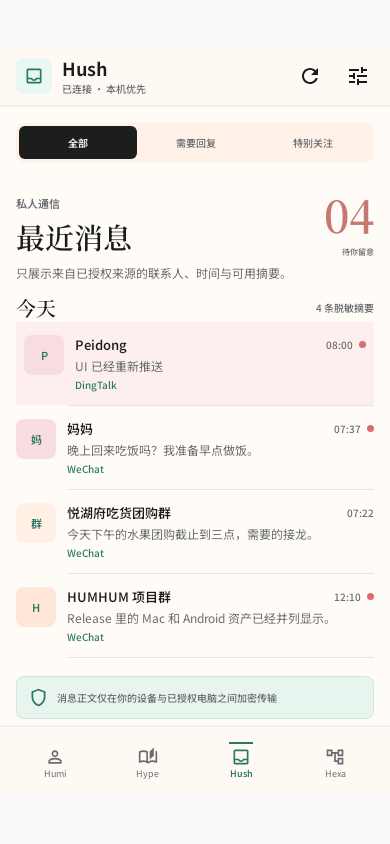
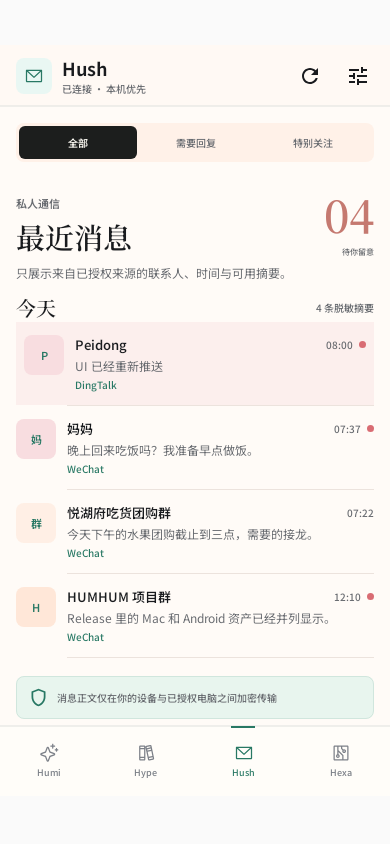
fix(android): match editorial role navigation

diff --git a/android/app/src/main/java/com/humhum/mobile/ui/components/RoleNavigation.kt b/android/app/src/main/java/com/humhum/mobile/ui/components/RoleNavigation.kt
@@ -2,43 +2,45 @@ package com.humhum.mobile.ui.components
 
 import androidx.compose.foundation.background
 import androidx.compose.foundation.clickable
-import androidx.compose.ui.draw.drawBehind
 import androidx.compose.foundation.layout.Arrangement
+import androidx.compose.foundation.layout.Box
 import androidx.compose.foundation.layout.Column
 import androidx.compose.foundation.layout.Row
-import androidx.compose.foundation.layout.Spacer
+import androidx.compose.foundation.layout.fillMaxHeight
 import androidx.compose.foundation.layout.fillMaxWidth
 import androidx.compose.foundation.layout.height
-import androidx.compose.foundation.layout.padding
 import androidx.compose.foundation.layout.size
-import androidx.compose.foundation.layout.width
 import androidx.compose.runtime.Composable
 import androidx.compose.ui.Alignment
 import androidx.compose.ui.Modifier
-import androidx.compose.ui.graphics.Color
 import androidx.compose.ui.geometry.Offset
+import androidx.compose.ui.geometry.Size
+import androidx.compose.ui.draw.drawBehind
+import androidx.compose.ui.graphics.Color
 import androidx.compose.ui.graphics.vector.ImageVector
 import androidx.compose.ui.platform.testTag
+import androidx.compose.ui.res.vectorResource
 import androidx.compose.ui.semantics.Role
 import androidx.compose.ui.semantics.semantics
 import androidx.compose.ui.semantics.selected
-import androidx.compose.ui.text.font.FontWeight
 import androidx.compose.ui.unit.dp
 import androidx.compose.ui.unit.sp
-import androidx.compose.material3.MaterialTheme
 import androidx.compose.material3.Icon
+import androidx.compose.material3.MaterialTheme
 import androidx.compose.material3.Text
-import androidx.compose.material.icons.Icons
-import androidx.compose.material.icons.outlined.AccountTree
-import androidx.compose.material.icons.outlined.AutoStories
-import androidx.compose.material.icons.outlined.Inbox
-import androidx.compose.material.icons.outlined.PersonOutline
 import com.humhum.mobile.MobileRoleDashboard
-import com.humhum.mobile.ui.theme.Muted
+import com.humhum.mobile.R
 import com.humhum.mobile.ui.theme.EditorialMetrics
-import com.humhum.mobile.ui.theme.HexaPanelMuted
-import com.humhum.mobile.ui.theme.paletteFor
 import com.humhum.mobile.ui.theme.editorialSpecFor
+
+object RoleNavigationMetrics {
+    val IconSize = 20.dp
+    val IndicatorWidth = 24.dp
+    val IndicatorHeight = 2.dp
+    val ItemGap = 3.dp
+    val LabelSize = 9.sp
+    val LabelLineHeight = 11.sp
+}
 
 @Composable
 fun RoleNavigation(
@@ -47,12 +49,17 @@ fun RoleNavigation(
     modifier: Modifier = Modifier,
 ) {
     val spec = editorialSpecFor(selected)
-    val divider = if (spec.dark) HexaPanelMuted.copy(alpha = 0.34f) else Color(0xFFE1E5EC)
+    val divider = if (spec.dark) Color(0xFF3B3F45) else Color(0xFFDFE1DE)
+    val background = when (selected) {
+        MobileRoleDashboard.Role.HUSH -> Color(0xFFFFFDF9)
+        MobileRoleDashboard.Role.HEXA -> Color(0xFF141619)
+        else -> Color.White.copy(alpha = 0.92f)
+    }
     Row(
         modifier = modifier
             .fillMaxWidth()
             .height(EditorialMetrics.BottomNavigationHeight)
-            .background(spec.canvas)
+            .background(background)
             .drawBehind {
                 drawLine(
                     color = divider,
@@ -61,7 +68,6 @@ fun RoleNavigation(
                     strokeWidth = 1.dp.toPx(),
                 )
             }
-            .padding(horizontal = 8.dp, vertical = 6.dp)
             .testTag("role-navigation"),
         horizontalArrangement = Arrangement.SpaceEvenly,
         verticalAlignment = Alignment.CenterVertically,
@@ -86,48 +92,67 @@ private fun RoleDestination(
     onClick: () -> Unit,
     modifier: Modifier = Modifier,
 ) {
-    val palette = paletteFor(role)
-    val idleColor = if (dark) HexaPanelMuted.copy(alpha = 0.62f) else Muted
-    Column(
+    val activeColor = roleNavigationActiveColor(role)
+    val idleColor = if (dark) Color(0xFF747A83) else Color(0xFF7C8088)
+    Box(
         modifier = modifier
-            .padding(horizontal = 3.dp)
+            .fillMaxHeight()
             .clickable(role = Role.Tab, onClick = onClick)
             .semantics { this.selected = selected }
             .testTag("role-destination")
-            .padding(vertical = 2.dp),
-        horizontalAlignment = Alignment.CenterHorizontally,
-        verticalArrangement = Arrangement.Center,
+            .drawBehind {
+                if (selected) {
+                    val indicatorWidth = RoleNavigationMetrics.IndicatorWidth.toPx()
+                    drawRect(
+                        color = activeColor,
+                        topLeft = Offset((size.width - indicatorWidth) / 2f, 0f),
+                        size = Size(
+                            indicatorWidth,
+                            RoleNavigationMetrics.IndicatorHeight.toPx(),
+                        ),
+                    )
+                }
+            },
+        contentAlignment = Alignment.Center,
     ) {
-        Spacer(
-            Modifier
-                .width(24.dp)
-                .height(2.dp)
-                .background(if (selected) palette.accent else Color.Transparent),
-        )
-        Spacer(Modifier.height(3.dp))
-        Icon(
-            imageVector = roleIconFor(role),
-            contentDescription = null,
-            modifier = Modifier.size(20.dp),
-            tint = if (selected) palette.accent else idleColor,
-        )
-        Text(
-            text = role.displayName(),
-            style = MaterialTheme.typography.labelMedium.copy(
-                fontSize = 9.sp,
-                lineHeight = 13.sp,
-                letterSpacing = 0.sp,
-            ),
-            fontWeight = if (selected) FontWeight.SemiBold else FontWeight.Normal,
-            color = if (selected) palette.accent else idleColor,
-            maxLines = 1,
-        )
+        Column(
+            horizontalAlignment = Alignment.CenterHorizontally,
+            verticalArrangement = Arrangement.spacedBy(RoleNavigationMetrics.ItemGap),
+        ) {
+            Icon(
+                imageVector = roleIconFor(role),
+                contentDescription = null,
+                modifier = Modifier.size(RoleNavigationMetrics.IconSize),
+                tint = if (selected) activeColor else idleColor,
+            )
+            Text(
+                text = role.displayName(),
+                style = MaterialTheme.typography.labelMedium.copy(
+                    fontSize = RoleNavigationMetrics.LabelSize,
+                    lineHeight = RoleNavigationMetrics.LabelLineHeight,
+                    letterSpacing = 0.sp,
+                ),
+                color = if (selected) activeColor else idleColor,
+                maxLines = 1,
+            )
+        }
     }
 }
 
-fun roleIconFor(role: MobileRoleDashboard.Role): ImageVector = when (role) {
-    MobileRoleDashboard.Role.HUMI -> Icons.Outlined.PersonOutline
-    MobileRoleDashboard.Role.HYPE -> Icons.Outlined.AutoStories
-    MobileRoleDashboard.Role.HUSH -> Icons.Outlined.Inbox
-    MobileRoleDashboard.Role.HEXA -> Icons.Outlined.AccountTree
+fun roleIconResourceFor(role: MobileRoleDashboard.Role): Int = when (role) {
+    MobileRoleDashboard.Role.HUMI -> R.drawable.ph_sparkle
+    MobileRoleDashboard.Role.HYPE -> R.drawable.ph_books
+    MobileRoleDashboard.Role.HUSH -> R.drawable.ph_envelope_simple
+    MobileRoleDashboard.Role.HEXA -> R.drawable.ph_circuitry
 }
+
+fun roleNavigationActiveColor(role: MobileRoleDashboard.Role): Color = when (role) {
+    MobileRoleDashboard.Role.HUMI -> Color(0xFF6D5CCC)
+    MobileRoleDashboard.Role.HYPE -> Color(0xFFB0462F)
+    MobileRoleDashboard.Role.HUSH -> Color(0xFF287864)
+    MobileRoleDashboard.Role.HEXA -> Color(0xFFFFC928)
+}
+
+@Composable
+fun roleIconFor(role: MobileRoleDashboard.Role): ImageVector =
+    ImageVector.vectorResource(roleIconResourceFor(role))

diff --git a/android/app/src/test/java/com/humhum/mobile/ui/theme/EditorialRoleSpecTest.kt b/android/app/src/test/java/com/humhum/mobile/ui/theme/EditorialRoleSpecTest.kt
@@ -4,6 +4,10 @@ import androidx.compose.ui.graphics.Color
 import androidx.compose.ui.unit.dp
 import androidx.compose.ui.unit.sp
 import com.humhum.mobile.MobileRoleDashboard
+import com.humhum.mobile.R
+import com.humhum.mobile.ui.components.RoleNavigationMetrics
+import com.humhum.mobile.ui.components.roleIconResourceFor
+import com.humhum.mobile.ui.components.roleNavigationActiveColor
 import org.junit.Assert.assertEquals
 import org.junit.Assert.assertFalse
 import org.junit.Assert.assertTrue
@@ -57,5 +61,26 @@ class EditorialRoleSpecTest {
         assertEquals(70.dp, EditorialMetrics.BottomNavigationHeight)
         assertEquals(16.dp, EditorialMetrics.HorizontalPadding)
         assertEquals(17.dp, EditorialMetrics.ContentTopPadding)
+    }
+
+    @Test
+    fun roleNavigationUsesTheApprovedPhosphorIconsAndMetrics() {
+        assertEquals(R.drawable.ph_sparkle, roleIconResourceFor(MobileRoleDashboard.Role.HUMI))
+        assertEquals(R.drawable.ph_books, roleIconResourceFor(MobileRoleDashboard.Role.HYPE))
+        assertEquals(
+            R.drawable.ph_envelope_simple,
+            roleIconResourceFor(MobileRoleDashboard.Role.HUSH),
+        )
+        assertEquals(R.drawable.ph_circuitry, roleIconResourceFor(MobileRoleDashboard.Role.HEXA))
+        assertEquals(20.dp, RoleNavigationMetrics.IconSize)
+        assertEquals(24.dp, RoleNavigationMetrics.IndicatorWidth)
+        assertEquals(2.dp, RoleNavigationMetrics.IndicatorHeight)
+        assertEquals(3.dp, RoleNavigationMetrics.ItemGap)
+        assertEquals(9.sp, RoleNavigationMetrics.LabelSize)
+        assertEquals(11.sp, RoleNavigationMetrics.LabelLineHeight)
+        assertEquals(
+            Color(0xFFFFC928),
+            roleNavigationActiveColor(MobileRoleDashboard.Role.HEXA),
+        )
     }
 }

diff --git a/design/mobile-editorial-preview/design-qa.md b/design/mobile-editorial-preview/design-qa.md
@@ -70,9 +70,10 @@ reference states. Automated contrast checks remain required in Compose.
 
 ### Image Quality And Asset Fidelity
 
-No reference imagery was copied. The prototype uses the Phosphor icon font for
-standard interface icons and text-based sender initials already supported by
-HUMHUM. It does not substitute CSS drawings, emoji, placeholder images, or
+No reference imagery was copied. The HTML prototype uses the Phosphor icon font,
+and Android uses the matching official Phosphor vector paths for the four shared
+role destinations. Text-based sender initials remain supported by HUMHUM. The
+implementation does not substitute CSS drawings, emoji, placeholder images, or
 generated decorative art for source assets.
 
 ### Copy And Content
@@ -138,5 +139,17 @@ engagement feature from the reference was introduced.
 - Post-fix evidence: four regenerated 390 x 844 Compose screenshots, 37/37 API
   36 instrumented tests, Android lint, Android debug APK build, and typography
   metric unit tests all passing.
+
+### Pass 6
+
+- P1: Android's role navigation still used approximate Material icons, placed
+  the active indicator inside the centered content, and used a heavier active
+  label than the approved HTML.
+- Fix: adopted the exact Phosphor 2.1.1 `sparkle`, `books`,
+  `envelope-simple`, and `circuitry` paths; moved the 24 x 2 dp indicator to the
+  navigation's top edge; restored equal-width destinations, 20 dp icons, 9/11
+  sp regular labels, and the exact light/dark navigation colors.
+- Post-fix evidence: four regenerated 390 x 844 Compose screenshots and all
+  nine visual QA states passing on API 36.
 
 final result: passed

diff --git a/docs/third-party/phosphor-icons.md b/docs/third-party/phosphor-icons.md
@@ -1,0 +1,14 @@
+# Phosphor Icons Attribution
+
+HUMHUM uses four regular-weight Phosphor icons for the shared role navigation:
+
+- `sparkle`
+- `books`
+- `envelope-simple`
+- `circuitry`
+
+Project: https://github.com/phosphor-icons/core
+
+The Android vector resources preserve the official 256 x 256 path data used by
+the approved HTML preview. The project is MIT licensed; the full license is in
+`docs/third-party/licenses/PHOSPHOR-ICONS-LICENSE.txt`.
